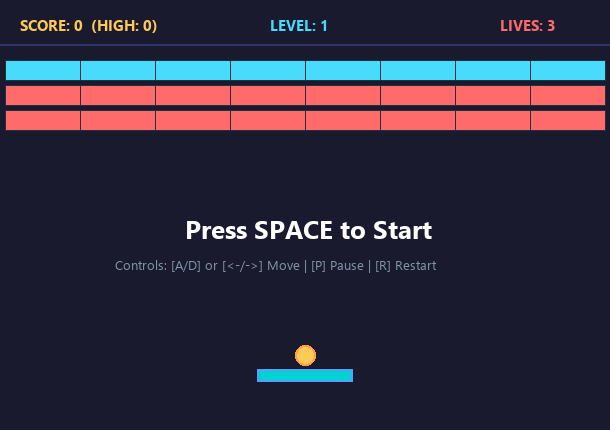
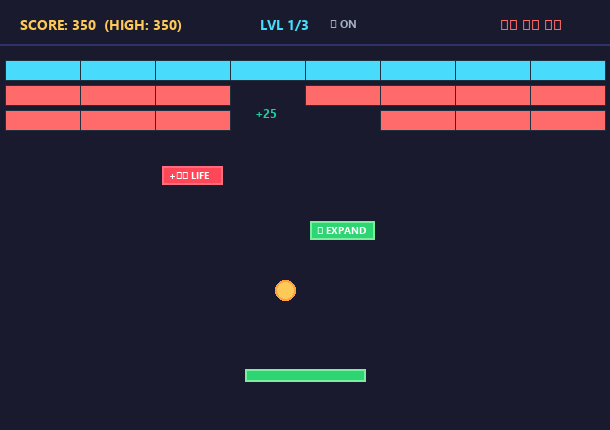
memperbarui README dengan daftar 10 modifikasi dan preview tampilan

diff --git a/README.md b/README.md
@@ -12,86 +12,83 @@
 
 ---
 
-## 📸 Tangkapan Layar Tampilan Modifikasi
+## 📸 Tangkapan Layar Tampilan Modifikasi Game
 
-Berikut adalah tampilan antarmuka game *Brick Breaker* yang telah dimodifikasi dengan gaya visual *Modern Dark Arcade*:
+Berikut adalah tampilan antarmuka game *Brick Breaker* yang telah dimodifikasi secara menyeluruh dengan gaya visual *Modern Dark Arcade*, partikel skor, HUD lengkap, dan kapsul *Power-Up*:
 
 ![Tampilan Modifikasi Game Brick Breaker](screenshots/tampilan_modifikasi.png)
 
 ---
 
-## 🔄 Rangkuman Perubahan & Modifikasi
+## 🔄 Rangkuman Komparasi: Versi Bawaan (Default) vs Versi Modifikasi
 
-Game ini dikembangkan dan dimodifikasi dari referensi awal [Hackster.io - Make Your Own BrickBreaker Using Python](https://www.hackster.io/trivediswap25/make-your-own-brickbreaker-using-python-28c674). Berikut adalah perbandingan fitur bawaan (default) vs modifikasi:
+Proyek ini melakukan modifikasi substansial dari kode dasar referensi [Hackster.io - Make Your Own BrickBreaker Using Python](https://www.hackster.io/trivediswap25/make-your-own-brickbreaker-using-python-28c674). Tidak hanya kosmetik, logika permainan dan arsitektur kelas OOP diperluas secara signifikan:
 
-| Fitur / Komponen | Versi Bawaan (Default Referensi) | Versi Modifikasi (Proyek Ini) |
-| :--- | :--- | :--- |
-| **Tema & Visual** | Latar biru pastel (`#aaaaff`), paddle kuning, bola putih polos. | Tema *Dark Arcade* (`#1a1a2e`), paddle neon cyan (`#00d2d3`), bola emas menyala (`#feca57`), palet bata neon kontras. |
-| **HUD & Tipografi** | Font `Forte` kaku, hanya teks biasa `Lives: 3`. | Font modern `Segoe UI Bold`, header HUD rapi dengan pemisah garis, skor, level, dan nyawa simbol hati (`❤ ❤ ❤`). |
-| **Sistem Penilaian (Score)** | Tidak ada skor (hanya menang/kalah). | Sistem skor dinamis: +10 tiap pantulan bata, +25 saat bata hancur, +100 bonus tamat level, serta pelacak *High Score*. |
-| **Kontrol Pemain** | Hanya tombol panah `<Left>` dan `<Right>`. | Kontrol ganda: Tombol panah (`<-` / `->`) dan tombol `A` / `D` (ramah keyboard gaming). |
-| **Fitur Pause & Restart** | Tidak ada fitur pause maupun restart instan. | Fitur Jeda permainan (`[P] Pause/Resume`) dan Mulai Ulang instan (`[R] Quick Restart`). |
-| **Progresi Multi-Level** | Hanya 1 level statis (3 baris bata). | Multi-level (Level 1 & Level 2): Level 2 menyajikan 4 baris bata rapat dengan bata emerald (3x ketahanan) dan kecepatan bola meningkat. |
+| No | Fitur / Komponen | Versi Bawaan (Default Referensi) | Versi Modifikasi (Proyek Ini) |
+| :-: | :--- | :--- | :--- |
+| **1** | **Arsitektur OOP** | Terbatas pada 4 kelas: `GameObject`, `Ball`, `Paddle`, `Brick`. | **5 Kelas OOP Terstruktur**: Menambahkan kelas turunan baru `PowerUp(GameObject)` serta kelas partikel visual `FloatingText`. |
+| **2** | **Item Power-Up Drops** | Tidak ada sistem power-up sama sekali. | **Sistem Drop Power-Up Dinamis**: Saat bata hancur (peluang 35%), muncul kapsul item jatuh: `⚡ EXPAND` (perlebar raket), `+❤ LIFE` (tambah nyawa), dan `⏳ SLOW` (perlambat bola). |
+| **3** | **Efek Audio (Sound Effects)** | Sepenuhnya hening (tanpa suara). | **Efek Suara Retro Asynchronous (`winsound`)**: Suara pantulan dinding/paddle, suara retakan bata, efek item power-up, nada kalah nyawa, dan jingle menang. Dilengkapi tombol `[M]` untuk mute/unmute. |
+| **4** | **Partikel Skor Melayang** | Tidak ada efek feedback visual. | **Animasi Score Pop-up (`FloatingText`)**: Angka perolehan skor (+10, +25, status power-up) melayang ke atas dan memudar secara halus saat bata dipukul. |
+| **5** | **Tema & Estetika Visual** | Latar biru pastel pucat (`#aaaaff`), paddle kuning standar, bola putih. | **Dark Arcade Mode**: Latar gelap elegan (`#1a1a2e`), paddle neon cyan (`#00d2d3`), bola glowing gold (`#feca57`), palet bata neon kontras (Coral, Cyan, Emerald). |
+| **6** | **Tipografi & Desain HUD** | Menggunakan font lama `Forte`, teks hanya `Lives: 3`. | **Modern Clean HUD**: Font `Segoe UI Bold`, baris pemisah arena, Skor, High Score, Level counter (`LVL 1/3`), indikator audio (`🔊 ON`), dan simbol hati (`❤ ❤ ❤`). |
+| **7** | **Sistem Skor & High Score** | Tidak memiliki sistem penilaian (skor). | **Sistem Skor Komprehensif**: +10 poin pantulan, +25 poin hancur total, +50 poin tangkap power-up, +150 bonus level, dan pencatatan rekor tertinggi (*High Score*). |
+| **8** | **Kontrol Pemain** | Hanya tombol panah `<Left>` dan `<Right>`. | **Kontrol Fleksibel Ganda**: Tombol panah (`<-` / `->`) dan tombol **`A`** / **`D`** (ramah pemain WASD). |
+| **9** | **Manajemen Permainan** | Tidak bisa dijeda atau di-restart cepat. | **Fitur Pause & Restart Instan**: Tombol **`P`** untuk Pause/Resume permainan, dan tombol **`R`** untuk Quick Full Restart kapan saja tanpa menutup window. |
+| **10** | **Tingkatan Level Permainan** | Hanya 1 level statis (3 baris datar). | **Multi-Level Bertahap (3 Level)**:<br>• **Level 1**: Grid 3 Baris Klasik.<br>• **Level 2**: Grid 4 Baris Rapat dengan bata tebal Emerald (3 Hits).<br>• **Level 3**: *Pyramid Challenge Mode* dengan kecepatan bola bertambah. |
 
 ---
 
-## 🎮 Penjelasan Detail Modifikasi
+## 🎮 Penjelasan Rinci Fitur-Fitur Modifikasi
 
-### 1. Desain Visual Modern (Dark Arcade Mode)
-- Latar belakang canvas diubah menjadi warna gelap elegan (`#1a1a2e`) untuk mengurangi ketegangan mata dan memberikan nuansa arcade retro modern.
-- Paddle pemain diberi aksen warna Neon Cyan (`#00d2d3`) dengan garis tepi biru elektrik (`#54a0ff`).
-- Bola permainan diberi warna Glowing Gold (`#feca57`) dengan outline oranye arcade (`#ff9f43`).
-- Bata menggunakan gradasi warna neon kontras: Coral Red (`#ff6b6b`, 1-hit), Sky Cyan (`#48dbfb`, 2-hit), dan Emerald Green (`#1dd1a1`, 3-hit).
+### 1. Kelas Turunan Baru: `PowerUp(GameObject)`
+- Mengimplementasikan konsep pewarisan OOP secara murni dengan mewarisi kelas dasar `GameObject`.
+- Memiliki 3 variasi kapsul bonus yang dapat jatuh saat pemain memecahkan bata:
+  * **`⚡ EXPAND`**: Memperlebar paddle pemain dari 95px menjadi 135px selama 250 frame untuk mempermudah menangkap bola.
+  * **`+❤ LIFE`**: Menambah 1 sisa nyawa pemain (maksimal hingga 5 hati).
+  * **`⏳ SLOW`**: Menurunkan kecepatan bola agar pergerakan lebih mudah dikendalikan.
+- Item bergerak ke bawah dengan gravitasi konstan (`speed = 3`), mendeteksi sentuhan (*collision*) dengan raket `Paddle`, dan otomatis terhapus saat mencapai dasar layar.
 
-### 2. Sistem Skor & High Score
-- Setiap kali bola mengenai bata sasaran, pemain memperoleh +10 poin.
-- Ketika bata berhasil dihancurkan hingga pecah, pemain memperoleh bonus +25 poin.
-- Menyelesaikan seluruh level memberikan bonus ekstra +100 poin.
-- Skor tertinggi (*High Score*) secara otomatis tercatat dan diperbarui selama sesi bermain.
+### 2. Animasi Partikel Teks Melayang (`FloatingText`)
+- Setiap kali bola menghantam bata, sistem menginstansiasi objek `FloatingText` pada titik koordinat tabrakan.
+- Menghasilkan efek visual animasi angka skor yang melayang naik perlahan sebelum terhapus secara otomatis dari memori Canvas Tkinter.
 
-### 3. Indikator Nyawa Simbol Hati (Heart HUD)
-- Menggantikan teks monoton `Lives: 3` dengan visualisasi simbol hati (`❤ ❤ ❤`).
-- Simbol hati berkurang satu per satu saat bola menyentuh dasar layar.
-- Saat nyawa habis, sistem menampilkan indikator patah hati (`💔 GAME OVER`).
+### 3. Sistem Efek Suara Retro Asynchronous
+- Memanfaatkan modul bawaan Python `winsound` dengan frekuensi dan durasi nada khusus untuk setiap aksi game.
+- Dieksekusi menggunakan *daemon background thread* (`threading.Thread`) sehingga proses audio **tidak pernah membuat rendering GUI freeze atau macet**.
+- Status audio dapat di-mute sewaktu-waktu dengan menekan tombol **`M`**.
 
-### 4. Fleksibilitas Kontrol Ganda & Tombol Aksi
-- **Gerak Kiri**: Tekan tombol panah `<-` atau tombol `A`.
-- **Gerak Kanan**: Tekan tombol panah `->` atau tombol `D`.
-- **Mulai / Lempar Bola**: Tekan tombol `Spasi` (`Spacebar`).
-- **Jeda (Pause / Resume)**: Tekan tombol `P` sewaktu-waktu untuk menghentikan loop pergerakan tanpa mereset game.
-- **Mulai Ulang (Quick Restart)**: Tekan tombol `R` kapan saja untuk langsung mengulang game ke Level 1 dengan kondisi bersih.
-
-### 5. Progresi Level 2 (Tantangan Bertahap)
-- **Level 1**: 3 baris bata standar (kecepatan bola normal).
-- **Level 2**: 4 baris bata lebih rapat dengan variasi bata emerald (membutuhkan 3 pantulan bola untuk hancur) serta peningkatan kecepatan bola sebesar 20%.
+### 4. Sistem Kontrol & Manajemen Game Lengkap
+- **Tombol Gerak**: `Panah Kiri` / `A` (ke kiri) dan `Panah Kanan` / `D` (ke kanan).
+- **Tombol Jeda (`P`)**: Menampilkan overlay status `PAUSED` dan menahan loop frame game.
+- **Tombol Reset Cepat (`R`)**: Mengembalikan seluruh kondisi permainan ke Level 1, skor 0, dan 3 nyawa seketika.
+- **Tombol Screenshot (`F12`)**: Mengambil tangkapan layar langsung dari canvas dan menyimpannya ke folder `screenshots/`.
 
 ---
 
 ## 🏛 Implementasi Konsep OOP (Object-Oriented Programming)
 
-Struktur kode dibangun dengan mematuhi prinsip-prinsip pemrograman berorientasi objek Python:
+Kesesuaian kode dengan capaian pembelajaran OOP pada GUI Programming:
 
 1. **Inheritance (Pewarisan)**:
-   - `GameObject`: Kelas induk (super class) abstrak yang menyediakan atribut umum canvas dan method manipulasi dasar (`get_position()`, `move()`, `delete()`).
-   - `Ball(GameObject)`: Mewarisi `GameObject`, menambahkan atribut arah kecepatan (`direction`), deteksi tabrakan dinding/paddle, serta method `collide()`.
-   - `Paddle(GameObject)`: Mewarisi `GameObject`, menambahkan method `move()` horizontal dengan batasan lebar layar.
-   - `Brick(GameObject)`: Mewarisi `GameObject`, mengelola atribut ketahanan bata (`hits`) dan method `hit()` untuk kalkulasi degradasi warna dan poin skor.
+   - `GameObject`: Kelas induk (super class) abstrak yang menyediakan atribut umum canvas dan method manipulasi posisi (`get_position()`, `move()`, `delete()`).
+   - `Ball(GameObject)`: Mewarisi `GameObject`, menambahkan atribut arah pantulan vektor sudut dan logika pantulan dinding.
+   - `Paddle(GameObject)`: Mewarisi `GameObject`, menambahkan kemampuan ekspansi lebar (`expand()`) dan pembatasan batas layar.
+   - `Brick(GameObject)`: Mewarisi `GameObject`, mengelola status ketahanan lapisan (`hits`) dan return poin skor.
+   - `PowerUp(GameObject)`: Mewarisi `GameObject`, kelas baru untuk item jatuh dengan properti tipe bonus dan deteksi penangkapan raket.
 2. **Encapsulation (Pembungkusan)**:
-   - Logika status permainan (status nyawa, skor, level, pause, loop waktu `after()`) dienkapsulasi dengan rapi di dalam class `Game(tk.Frame)`.
+   - Seluruh logika alur game, level progression, HUD updater, event listener, dan audio disatukan di dalam class controller `Game(tk.Frame)`.
 3. **Polymorphism**:
-   - Pemanggilan method polimorfik antar objek game melalui antarmuka `GameObject` dalam proses `find_overlapping()` dan `collide()`.
+   - Metode `move()` dan `delete()` pada `GameObject` di-override secara fleksibel oleh kelas turunan `PowerUp` dan `Paddle` sesuai kebutuhan masing-masing entitas.
 
 ---
 
-## 🚀 Cara Menjalankan Game
+## 🚀 Panduan Menjalankan Game
 
-1. Pastikan Python 3 sudah terpasang di sistem operasi Anda.
-2. Buka terminal pada folder proyek ini:
+1. Pastikan Python 3 sudah terpasang di komputer Anda.
+2. Jalankan perintah berikut di terminal:
    ```bash
    cd ModifyGameBrickBreaker_118
-   ```
-3. Jalankan skrip utama:
-   ```bash
    python main.py
    ```
-4. Tekan tombol **Space** untuk mulai bermain!
+3. Tekan tombol **Space** untuk mulai bermain!
